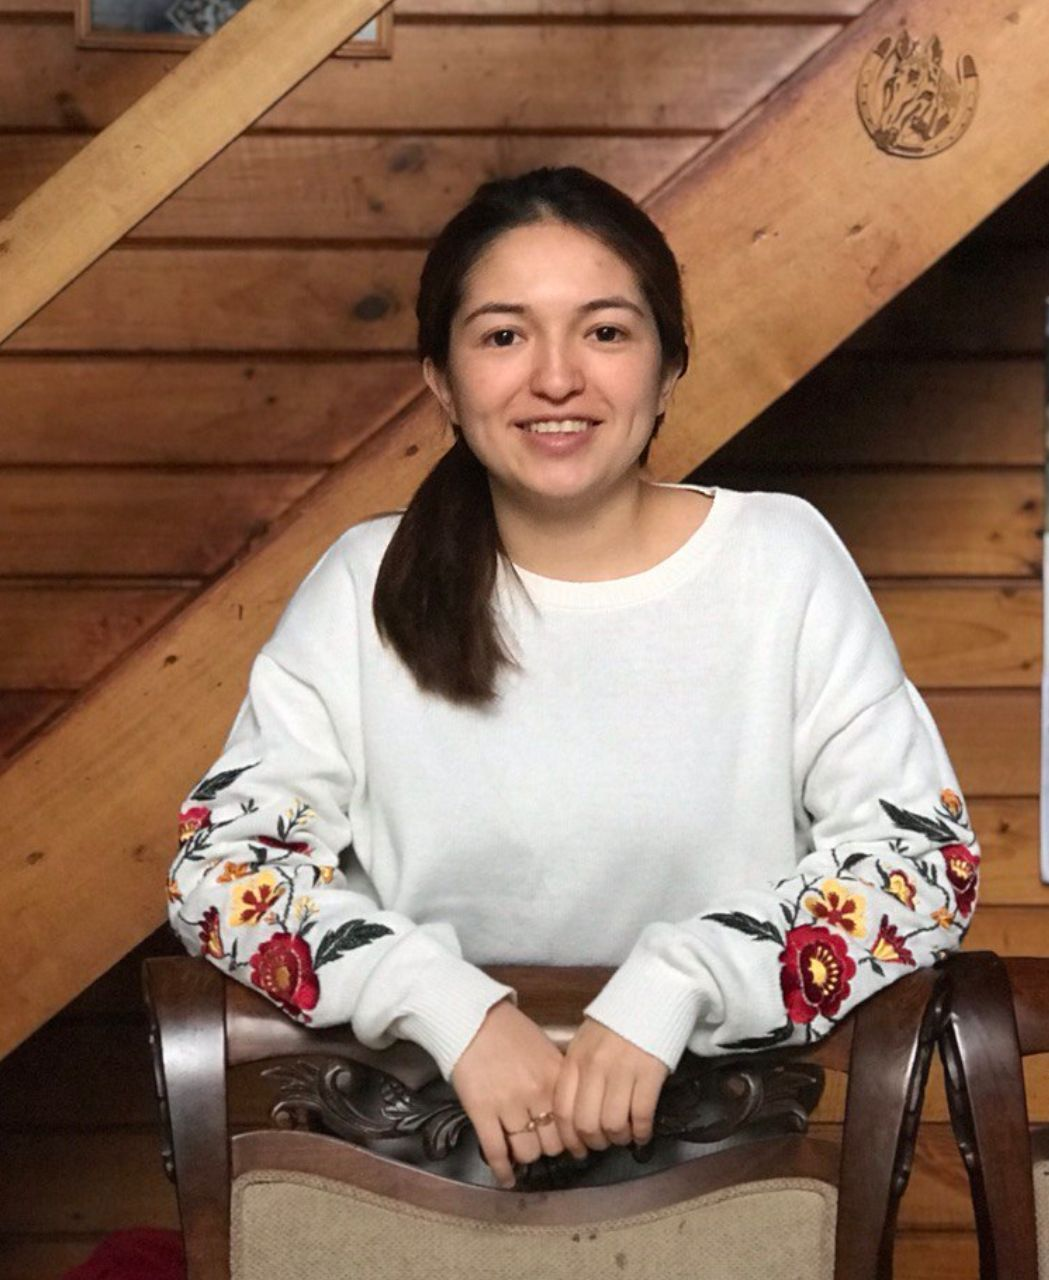
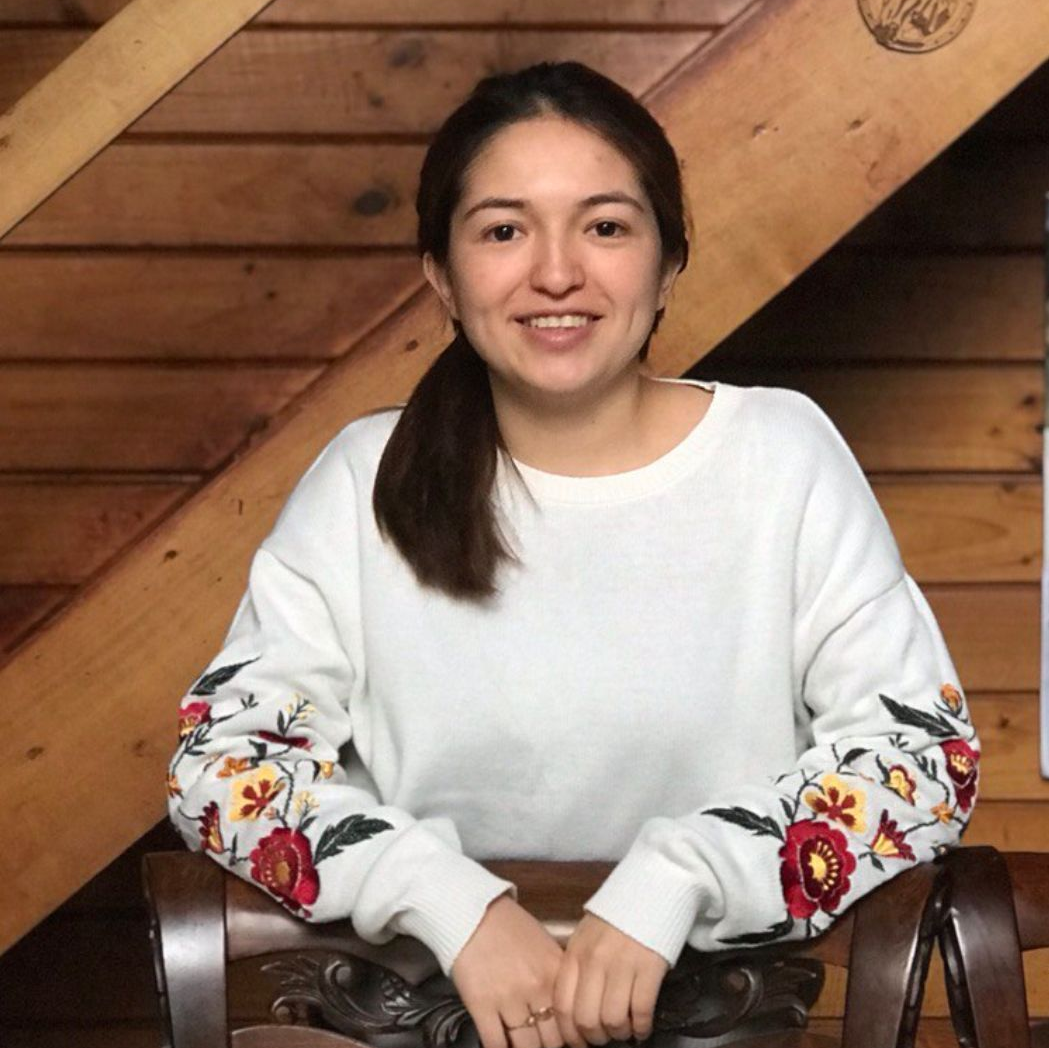
change style and photo, iniciatives

diff --git a/src/data/power.js b/src/data/power.js
@@ -1,6 +1,9 @@
 export default({
     "en":{
-        team: [],
+        team: [
+            {id: '1', image: 'team/daniela-campos.jpg', text:'Daniela Campos',workstation:'Leader',description:''},
+            {id: '2', image: 'team/ignacio-machuca.png', text:'Ignacio Machuca',workstation:'Tutor',description:''}
+        ],
         about:[
             {text: 'Proyecto de identificación de talentos y fortalecimiento académico en\
             programación competitiva. Este consiste en 10 sesiones teórico-prácticas\
@@ -23,7 +26,10 @@ export default({
         ]
     },
     "es":{
-        team: [],
+        team: [
+            {id: '1', image: 'team/daniela-campos.jpg', text:'Daniela Campos',workstation:'Leader',description:''},
+            {id: '2', image: 'team/ignacio-machuca.png', text:'Ignacio Machuca',workstation:'Tutor',description:''}
+        ],
         about:[
             {text: 'Proyecto de identificación de talentos y fortalecimiento académico en\
             programación competitiva. Este consiste en 10 sesiones teórico-prácticas\

diff --git a/src/views/Potencia.vue b/src/views/Potencia.vue
@@ -12,12 +12,12 @@
       </div>
     </section>
 
- <!--   <section id="equipo-power">
+    <section id="equipo-power">
       <div class="container">
         <h1 class="title"> {{$t('power.titleTeam')}} </h1>
           <Team :team="datos('team')"/>
       </div>
-    </section>-->
+    </section>
 
     <section>
       <div class="container">
@@ -39,7 +39,7 @@
 
 <script>
 import PhotoBanner from "../components/PhotoBanner.vue";
-//import Team from "../components/Team.vue";
+import Team from "../components/Team.vue";
 import * as Inspire from '../data/power.js';
 import i18n from '../i18n'
 
@@ -47,7 +47,7 @@ export default {
   name: "Projects",
   components: {
     PhotoBanner,
-    //Team,
+    Team,
   },
   data(){
     const lang=`${i18n.locale}`
@@ -103,7 +103,8 @@ section {
       font-size: 30px;
       font-weight: 600;
       text-align: center;
-      padding-bottom: 20px;
+      padding-bottom: 40px;
+      padding-top: 40px;
     }
 
     .subtitle {

diff --git a/src/components/Team.vue b/src/components/Team.vue
@@ -1,5 +1,5 @@
 <template>
-    <div class="columns is-multiline is-centered" >
+    <div class="columns is-multiline is-centered team" >
         <div  class="column is-one-quarter" v-for="item in team" :key="item.id">
                 <div class="card-image">
                     <figure>
@@ -68,8 +68,8 @@ export default {
   }
 }
 
-.carrusel{
-  padding-bottom: 10px;
+.team{
+  padding-top: 10px;
 }
 
 vue-fontawesome {

diff --git a/src/components/Carrousel.vue b/src/components/Carrousel.vue
@@ -1,5 +1,5 @@
 <template>
-  <b-carousel :pause-hover="false" :pause-info="false" :interval="4000">
+  <b-carousel :pause-hover="false" :pause-info="false" :interval="10000">
     <b-carousel-item v-for="(carousel,i) in datos" :key="i">
       <section :class="`hero is-medium ${type}`">
         <div class="hero-body">

diff --git a/src/views/Empodera.vue b/src/views/Empodera.vue
@@ -102,7 +102,8 @@ section {
       font-size: 30px;
       font-weight: 600;
       text-align: center;
-      padding-bottom: 20px;
+      padding-bottom: 40px;
+      padding-top: 40px;
     }
 
     .subtitle {

diff --git a/src/views/Incentiva.vue b/src/views/Incentiva.vue
@@ -102,7 +102,8 @@ section {
       font-size: 30px;
       font-weight: 600;
       text-align: center;
-      padding-bottom: 20px;
+      padding-bottom: 40px;
+      padding-top: 40px;
     }
 
     .subtitle {

diff --git a/src/views/Inspira.vue b/src/views/Inspira.vue
@@ -102,7 +102,8 @@ section {
       font-size: 30px;
       font-weight: 600;
       text-align: center;
-      padding-bottom: 20px;
+      padding-bottom: 40px;
+      padding-top: 40px;
     }
 
     .subtitle {
